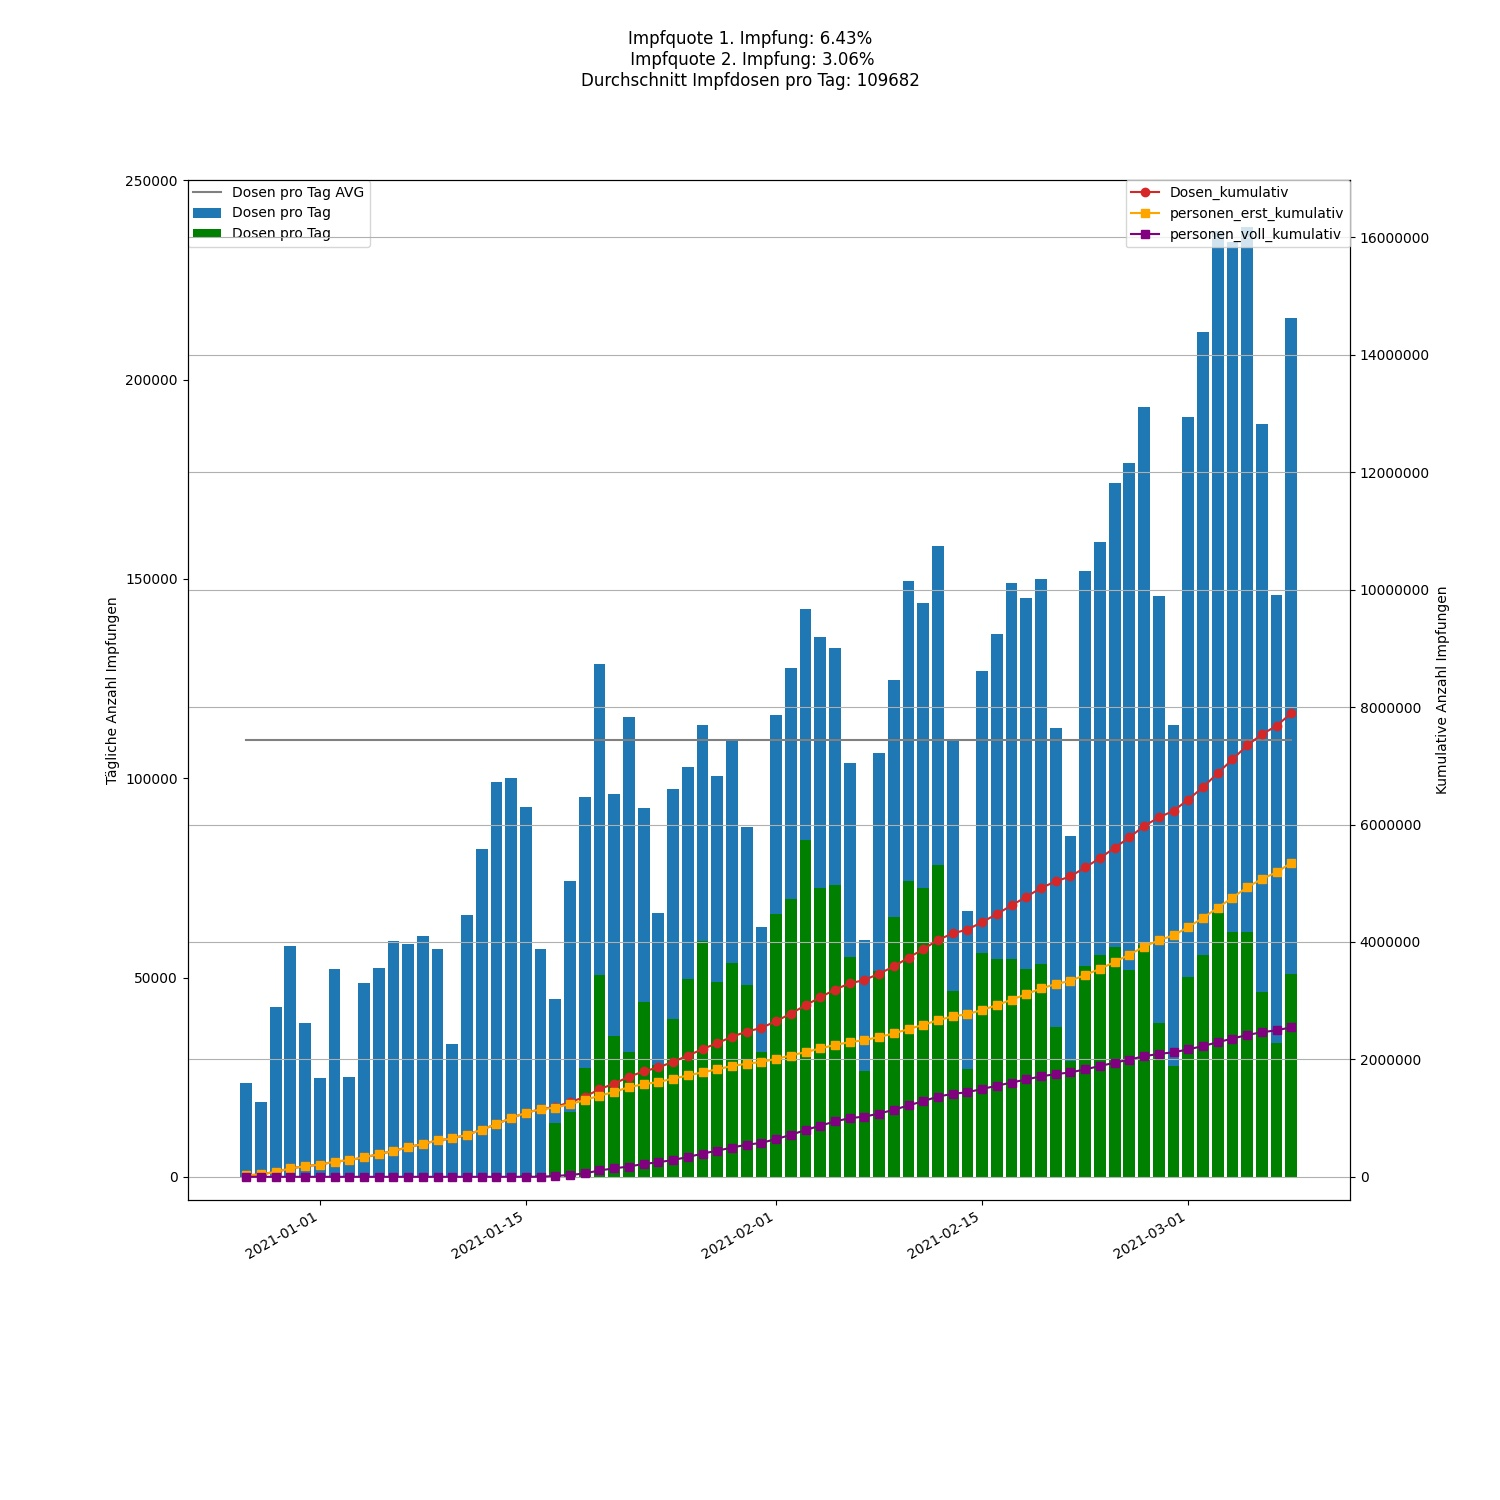
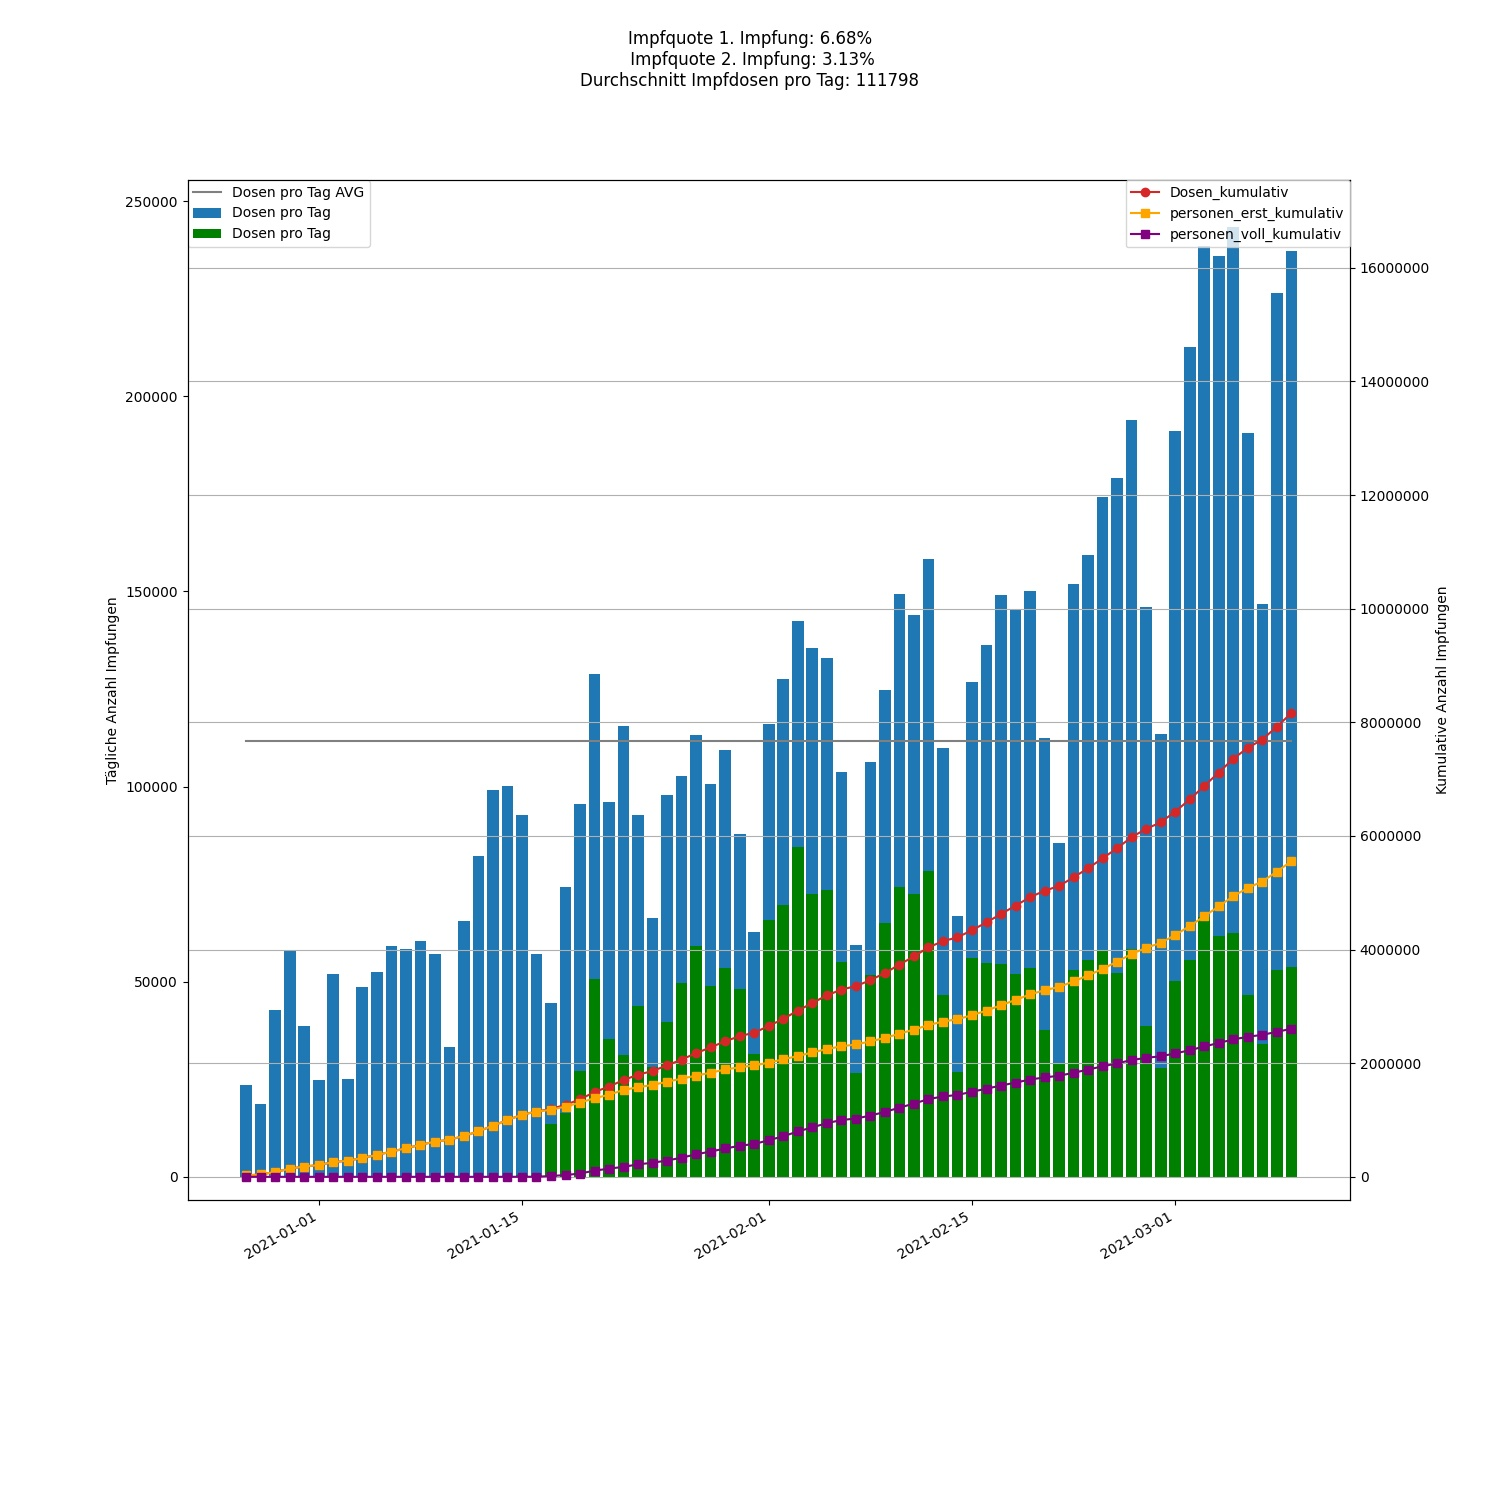
Crontab commit

diff --git a/Readme.md b/Readme.md
@@ -1,19 +1,19 @@
-# Corona vaccine Germany - Stand 2021-03-08
+# Corona vaccine Germany - Stand 2021-03-09
 ## Dashboard by [Simon Hamacher](https://www.shamacher.eu)
 ## Impfstoffe Übersicht
 **Impfstoffhersteller** | **verimpfte Dosen**
 -------- | :--------:
-Biontech | 6617613
-Moderna | 252559
-Astrazeneca | 1026928
+Biontech | 6768884
+Moderna | 264865
+Astrazeneca | 1127489
 
 
 ## Quoten
-**Total Verimpfte Dosen:** | 7897100
+**Total Verimpfte Dosen:** | 8161238
 -------- | :--------:
-**Erst-Impfquote** | 6.43 %
-**Voll-Impfquote** | 3.06 %
-**Imfungen Durchschnitt** | 109681.94 pro Tag
+**Erst-Impfquote** | 6.68 %
+**Voll-Impfquote** | 3.13 %
+**Imfungen Durchschnitt** | 111797.78 pro Tag
 ## Graphen
 <img src="Impfungen-Corona-01.jpg" alt="Corona-1" title="optionaler Titel" />
 <img src="Impfungen-Corona-02.jpg" alt="Corona-2" title="optionaler Titel" />
